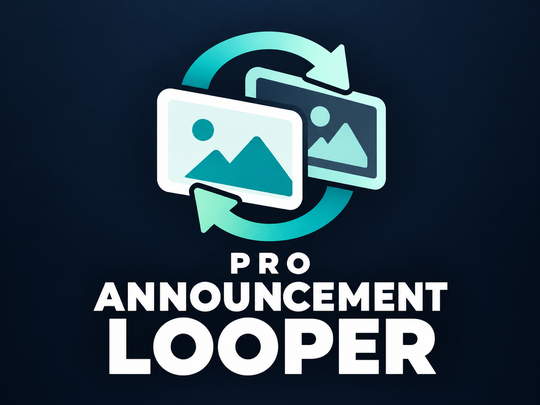
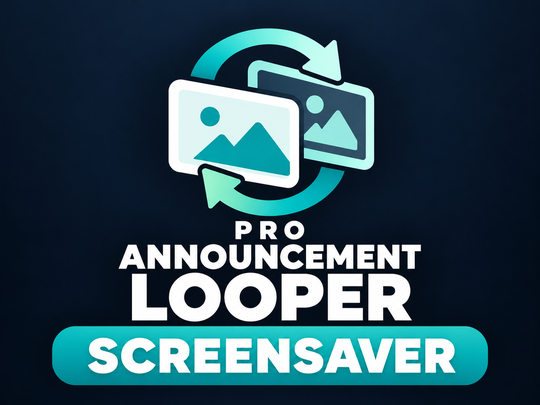
Add hidden exit diagnostics and distinct screensaver artwork for 0.9.1

Changed region(s): [[0.0889, 0.0593, 0.9185, 0.9778]]

diff --git a/scripts/exit_diagnostics.py b/scripts/exit_diagnostics.py
@@ -1,0 +1,47 @@
+#!/usr/bin/env python3
+"""Read hidden local diagnostics over a keyed Roku's developer console. No playback commands."""
+import argparse
+import html
+import json
+import re
+import socket
+from pathlib import Path
+
+
+def main():
+    parser = argparse.ArgumentParser(description=__doc__)
+    parser.add_argument('--host', required=True, help='Roku hostname or IP address')
+    parser.add_argument('--out', type=Path, help='Optional private local output file; do not commit it')
+    args = parser.parse_args()
+    with socket.create_connection((args.host, 8080), timeout=5) as connection:
+        connection.settimeout(2)
+        connection.sendall(b'sgnodes palExitDiagnostics\r\n')
+        chunks = []
+        size = 0
+        while size < 65536:
+            try:
+                chunk = connection.recv(8192)
+            except socket.timeout:
+                break
+            if not chunk:
+                break
+            chunks.append(chunk)
+            size += len(chunk)
+    response = b''.join(chunks).decode(errors='replace')
+    match = re.search(r'\btext="([^"]*)"', response)
+    if not match:
+        raise SystemExit('Diagnostics unavailable. Open the updated app first; published-app inspection requires a matching developer key. No changes were made.')
+    try:
+        report = json.loads(html.unescape(match.group(1)))
+    except json.JSONDecodeError:
+        raise SystemExit('The developer console did not return a complete diagnostics record. Inspect the PALExitDiagnosticsV1 registry section with Roku Resource Monitor instead.')
+    output = json.dumps(report, indent=2) + '\n'
+    if args.out:
+        args.out.write_text(output)
+        print('Saved private diagnostics:', args.out)
+    else:
+        print(output, end='')
+
+
+if __name__ == '__main__':
+    main()

diff --git a/scripts/preflight.py b/scripts/preflight.py
@@ -26,7 +26,10 @@ def check():
             assert len(listing[kind]['name']) <= 30
             assert len(listing[kind]['short_description']) <= 300
             assert len(listing[kind]['long_description']) <= 1500
-            assert png_size(archive.read('images/icon-fhd.png')) == (540,405)
+            icon_prefix = 'screensaver-icon' if kind == 'screensaver' else 'icon'
+            assert manifest['mm_icon_focus_fhd'] == f'pkg:/images/{icon_prefix}-fhd.png'
+            assert png_size(archive.read(f'images/{icon_prefix}-fhd.png')) == (540,405)
+            assert png_size(archive.read(f'images/{icon_prefix}-hd.png')) == (290,218)
             assert png_size(archive.read('images/icon-hd.png')) == (290,218)
             for i in range(3):
                 assert png_size(archive.read(f'images/demo/{i}.png')) == (1920,1080)
@@ -35,6 +38,8 @@ def check():
             assert ('CreateObject("roInput")' in sources) == (kind == 'player')
             if kind == 'screensaver':
                 assert not re.search(r'(?im)^function onKeyEvent\(', sources), 'Screensaver must have no custom key handler'
+                assert manifest.get('hidden') == '1'
+                assert archive.read('images/screensaver-icon-fhd.png') != archive.read('images/icon-fhd.png')
                 assert 'components/ControlsScene.brs' not in names
                 assert 'RunScreenSaverSettings' not in sources
             assert not any(n.startswith(('node_modules/','tests/','branding/','store/')) for n in names)

diff --git a/scripts/assets.py b/scripts/assets.py
@@ -75,7 +75,10 @@ def release_artwork():
     for name, size in [('icon-hd',(290,218)),('icon-fhd',(540,405))]:
         source.resize(size, Image.Resampling.LANCZOS).save(ROOT / 'images' / (name+'.png'))
     source.resize((540,405), Image.Resampling.LANCZOS).save(ROOT / 'store/artwork/player-poster-540x405.png')
-    source.resize((540,405), Image.Resampling.LANCZOS).save(ROOT / 'store/artwork/screensaver-poster-540x405.png')
+    screensaver = Image.open(ROOT / 'branding' / 'screensaver-icon-master.png').convert('RGB')
+    for name, size in [('screensaver-icon-hd',(290,218)),('screensaver-icon-fhd',(540,405))]:
+        screensaver.resize(size, Image.Resampling.LANCZOS).save(ROOT / 'images' / (name+'.png'))
+    screensaver.resize((540,405), Image.Resampling.LANCZOS).save(ROOT / 'store/artwork/screensaver-poster-540x405.png')
     for name, size in [('splash-hd',(1280,720)),('splash-fhd',(1920,1080))]:
         canvas = Image.new('RGB',size,(16,25,35))
         tile = source.copy()

diff --git a/scripts/build.py b/scripts/build.py
@@ -21,7 +21,7 @@ def build(kind):
         for suffix in ('.brs', '.xml'):
             (target / 'components' / ('ControlsScene' + suffix)).unlink()
     (target / 'source').mkdir()
-    for name in ('common.brs', 'model.brs', kind + '.brs'):
+    for name in ('common.brs', 'model.brs', 'diagnostics-model.brs', 'diagnostics.brs', kind + '.brs'):
         shutil.copy(ROOT / 'source' / name, target / 'source' / name)
     for xml in (target / 'components').glob('*.xml'):
         ET.parse(xml)

diff --git a/store/SIGNING-AND-SUBMISSION.md b/store/SIGNING-AND-SUBMISSION.md
@@ -1,12 +1,12 @@
 # Signing and submission handoff
 
-Prepared release: 0.9.0. Both encrypted .pkg files have now been generated with the publisher signing identity. The included ZIP files remain unsigned sideload builds. Neither format is evidence of Store approval. See release-status.json for hashes and completed checks.
+Prepared update: 0.9.1. Its player/screensaver packages include hidden diagnostics and distinct screensaver artwork. Signed 0.9.1 packages are available. Player startup and diagnostic retrieval passed on hardware; screensaver Preview and Store analysis remain pending. Do not reuse the signed 0.9.0 packages. See release-status.json.
 
 1. Use the publisher's Roku Developer account and public support contacts. Confirm region choices, privacy/terms URLs, and classification. Publish using the organization's account. Do not include credentials or signing secrets in Git or the release ZIP.
 2. Use a spare developer Roku, or arrange a time to interrupt the current test device. Installing either release ZIP replaces that device's sideloaded app. Both entry points must be tested on hardware with rsg_version=1.3 before submission.
 3. Reuse the organization's existing Roku signing key if one exists. A new signing key must be created and securely retained by its owner if none exists. Follow Roku's official packaging guide. Generating or changing a key is not part of these unsigned build scripts.
-4. In the Roku Development Application Installer, install the player ZIP. Use the Package/Packager page with a short label such as PAL-player-0.9.0 (maximum 32 characters) and the owner's signing credentials to produce the encrypted .pkg. Download and keep that file as pro-announcement-looper-player-0.9.0.pkg.
-5. Install the screensaver ZIP on the signing device. Test screensaver Preview. Configure it through the signed companion player; there is no screensaver settings entry. Use PAL-saver-0.9.0 as a short package label. Sign with the SAME key and download pro-announcement-looper-screensaver-0.9.0.pkg. Verify both packages' developer IDs match. Preserve a signed package and the key password securely for future updates.
+4. In the Roku Development Application Installer, install the player ZIP. Use the Package/Packager page with a short label such as PAL-player-0.9.1 (maximum 32 characters) and the owner's signing credentials to produce the encrypted .pkg. Download and keep that file as pro-announcement-looper-player-0.9.1.pkg.
+5. Install the screensaver ZIP on the signing device. Test screensaver Preview. Configure it through the signed companion player; there is no screensaver settings entry. Use PAL-saver-0.9.1 as a short package label. Sign with the SAME key and download pro-announcement-looper-screensaver-0.9.1.pkg. Verify both packages' developer IDs match. Preserve a signed package and the key password securely for future updates.
 6. Capture genuine 1920×1080 screenshots from the new build using the bundled demo: Home, presentation details, schedule, and the sample slideshow. Use only content you have rights to publish. Do not submit illustrative mockups or previous-build screenshots as new-build captures. Copy the approved captures into store/screenshots and rerun npm run release.
 7. Create separate beta player/screensaver entries, upload signed packages, and use the provided posters/listing copy. Set no sign-in and free/no monetization. Review all values in listing-en-US.json, including publisher-specific public support contacts. Beta apps are temporary QA distribution, not permanent installations.
 8. Run Roku's Static Analysis and applicable pre-certification tools, resolve findings, and complete hardware smoke/soak tests. Confirm how Roku will evaluate a LAN utility with no long-form video catalog. Only then create/finish the public listings and submit them for Roku review.

diff --git a/README.md b/README.md
@@ -2,7 +2,7 @@
 
 An open-source ProPresenter announcements player for Roku, plus a separate companion screensaver. Built for a church running ProPresenter 21 and Roku Streaming Stick 4K devices, with a practical target of 4–6 unattended hours per day.
 
-**Status: first implementation, compiler-checked and locally tested; not yet tested on a physical Roku or a live ProPresenter 21 installation.** Do not replace your Sunday setup before completing the hardware acceptance checks below. The source is published at https://github.com/lcberto/pro-announcement-looper. No Roku Store listing has been published.
+**Status: 0.9.1 release candidate.** Local checks cover both packages; hardware validation, signing, and Store review are tracked separately. Version 0.9.1 adds hidden exit diagnostics and differentiated screensaver artwork. It diagnoses unexpected exits; it does not claim to fix their cause.
 
 ## What it does
 
@@ -228,3 +228,17 @@ MIT. The project code and generated artwork may be used, modified, and shared. P
 Version 0.9.0 applies the approved icon and sets `rsg_version=1.3` for current certification requirements. These release changes still need hardware validation and Roku Static Analysis. A local preflight pass is not certification.
 
 Reviewers and new users can use **Connection & TV settings → Try offline demo**. It plays three bundled sample slides without contacting a server or saving settings; Back or * exits and restores the original configuration. An unconfigured system screensaver shows the same samples. Player and screensaver remain separate submissions. The source repository is MIT licensed; each publisher must supply valid public contacts, policy pages, and signed packages.
+
+## Hidden exit diagnostics (0.9.1)
+
+At startup, both entry points read Roku's `roAppManager.GetLastExitInfo()`. The latest eight distinct exit records per app ID and entry point are stored locally in the `PALExitDiagnosticsV1` registry section. Fields are limited to exit code, exit timestamp, foreground/background state, media-player state and memory limit when Roku supplies it. The capture also identifies the version reading the report, not necessarily the version that exited. Raw console output, slide content, presentation names and server addresses are not retained. Nothing is displayed in the product UI or automatically uploaded.
+
+Reopen the updated app after an unexpected exit to capture Roku's previous-exit report. On a developer-enabled device keyed with the publisher's signing identity, retrieve the hidden SceneGraph diagnostic node with:
+
+```sh
+python3 scripts/exit_diagnostics.py --host YOUR_ROKU_ADDRESS --out /path/to/private-exit-report.json
+```
+
+This sends only the read-only `sgnodes palExitDiagnostics` developer command on port 8080. Do not commit exported reports. Roku Resource Monitor can also inspect the `PALExitDiagnosticsV1` registry section. Inspection availability depends on Roku OS and signing identity. `EXIT_UNKNOWN` or no report is a valid platform result; collecting it does not prove a crash. Diagnostic failures never prevent normal startup, and the previous records are kept when there is no new report.
+
+The standalone screensaver is hidden from the Roku Home app grid (`hidden=1`), remains selectable in Roku's screensaver settings, and uses its own SCREENSAVER-labeled artwork. Store posters remain separate assets. Configure all content in the companion player.

diff --git a/branding/icon-generation-notes.md b/branding/icon-generation-notes.md
@@ -5,3 +5,9 @@ Generated with the built-in image generation tool. Concept only; no app assets o
 ## Final generation prompt
 
 Use case: logo-brand. Create one finished Roku app store tile concept for the open-source app named exactly "Pro Announcement Looper". Landscape 4:3 canvas, ideally 1536 by 1152. Edge-to-edge deep ink navy background matching #101923, subtly graded, with generous safe margins. A beautifully resolved large central original emblem: two overlapping landscape presentation cards combined with a continuous pair of curved loop arrows, expressing announcement slides repeating. Use luminous but flat restrained teal #4cc7b7 and pale mint, white negative space, bold simple geometric silhouette recognizable from across a room. Under the emblem, set the exact app name in confident, beautifully spaced, very legible white sans-serif, arranged on three centered lines: "PRO" small, "ANNOUNCEMENT" medium, "LOOPER" large. Strong visual hierarchy, compact intentional composition filling the tile, professionally crafted software identity. Polished editorial simplicity, crisp edges, excellent contrast at 540x405 thumbnail size. No device mockup, no presentation board, no surrounding border, no rounded outer app-mask corners, no photographic scenery, no megaphone, no church cross, no Roku logo, no ProPresenter logo, no subtitle or extra words, no watermark. This is an independent app, and the mark must be original.
+
+## Screensaver variant (0.9.1)
+
+Edited with the built-in image generation tool from icon-master.png; saved as screensaver-icon-master.png. The player master remains unchanged. Exported screensaver tiles and Store poster use the same approved variant.
+
+Prompt: Preserve the navy background, teal looping arrows, stacked picture cards and typography style of the existing Pro Announcement Looper icon. Keep PRO ANNOUNCEMENT LOOPER legible and add a large teal bottom badge with the exact white uppercase text SCREENSAVER, readable at a 290x218 Roku tile size. Preserve the landscape 4:3 composition; no third-party logos or transparency.

diff --git a/store/PRIVACY.md b/store/PRIVACY.md
@@ -10,6 +10,10 @@ These settings and images are not sent to a developer-operated service. The apps
 
 When enabled, the regular player accepts local-network commands through Roku's External Control Protocol. These commands can choose or refresh a presentation or resume a schedule. The apps do not add authentication to Roku's local control interface. Use a trusted network and Roku's network-control settings.
 
+## Local exit diagnostics
+
+At startup, the apps may retain up to eight recent exit records per app and entry point on the Roku: exit code, timestamp, foreground/background state, media-player state, memory limit when available, and the version collecting the report. Diagnostics exclude raw console text, presentation content, names, and server addresses. They are not shown on the TV or automatically uploaded. A developer with authorized device access can inspect or export them for troubleshooting. These records are held in a registry section separate from presentation settings.
+
 ## Your choices
 
 Remote actions are off by default. Automatic refresh intervals can be set to On open only. You can remove a presentation from the app, change its source, or uninstall the app. Removing a presentation removes its configuration and switch times from the list; cached files may remain until normal cache cleanup or operating-system eviction. Uninstalling does not delete any source material from ProPresenter. Storage shared by apps signed with the same developer key is governed by Roku's platform behavior.
@@ -20,4 +24,4 @@ Roku and your ProPresenter provider may process information under their own poli
 
 Support is available through the project issue tracker below. Publishers distributing their own builds must supply their own public contact information.
 
-Issue tracker: https://github.com/lcberto/pro-announcement-looper/issues
+Issue tracker: https://github.com/lifegatekc/pro-announcement-looper/issues

diff --git a/store/REVIEWER-NOTES.md b/store/REVIEWER-NOTES.md
@@ -1,4 +1,6 @@
-# Reviewer instructions — release candidate 0.9.0
+# Reviewer instructions — release candidate 0.9.1
+
+0.9.1 adds local hidden exit diagnostics and SCREENSAVER-labeled artwork. The screensaver uses hidden=1 to stay out of the Home app grid; select it through Roku screensaver settings. No custom key handler or settings entry point is included. Both 0.9.1 packages are signed with the same existing key. Player startup and hidden persisted exit-report retrieval passed on hardware, including prior exit codes and timestamps. Screensaver Preview and Store analysis remain pending. The validation history below refers to 0.9.0.
 
 ## App classification and access
 

diff --git a/store/SUPPORT.md b/store/SUPPORT.md
@@ -1,6 +1,6 @@
 # Support
 
-Pro Announcement Looper is a free, open-source local-network utility. Source and issue tracker: https://github.com/lcberto/pro-announcement-looper
+Pro Announcement Looper is a free, open-source local-network utility. Source and issue tracker: https://github.com/lifegatekc/pro-announcement-looper
 
 For setup, see the repository README. Connect Roku and ProPresenter to a network where they can reach one another, enable ProPresenter API access, and use the host and API port shown by ProPresenter. The documented default API port is 50001. No hardcoded church IP addresses are included in the app.
 

diff --git a/store/TERMS.md b/store/TERMS.md
@@ -8,6 +8,6 @@ You supply and control the ProPresenter computer, local network, and content. Us
 
 The apps display still slide images. Video playback is not included. Roku controls screensaver activation, device power behavior, app suspension, and cache eviction. Do not depend on the apps for emergency messages or other safety-critical displays.
 
-Support and source: https://github.com/lcberto/pro-announcement-looper
+Support and source: https://github.com/lifegatekc/pro-announcement-looper
 
 Privacy details: PRIVACY.md in this directory.
